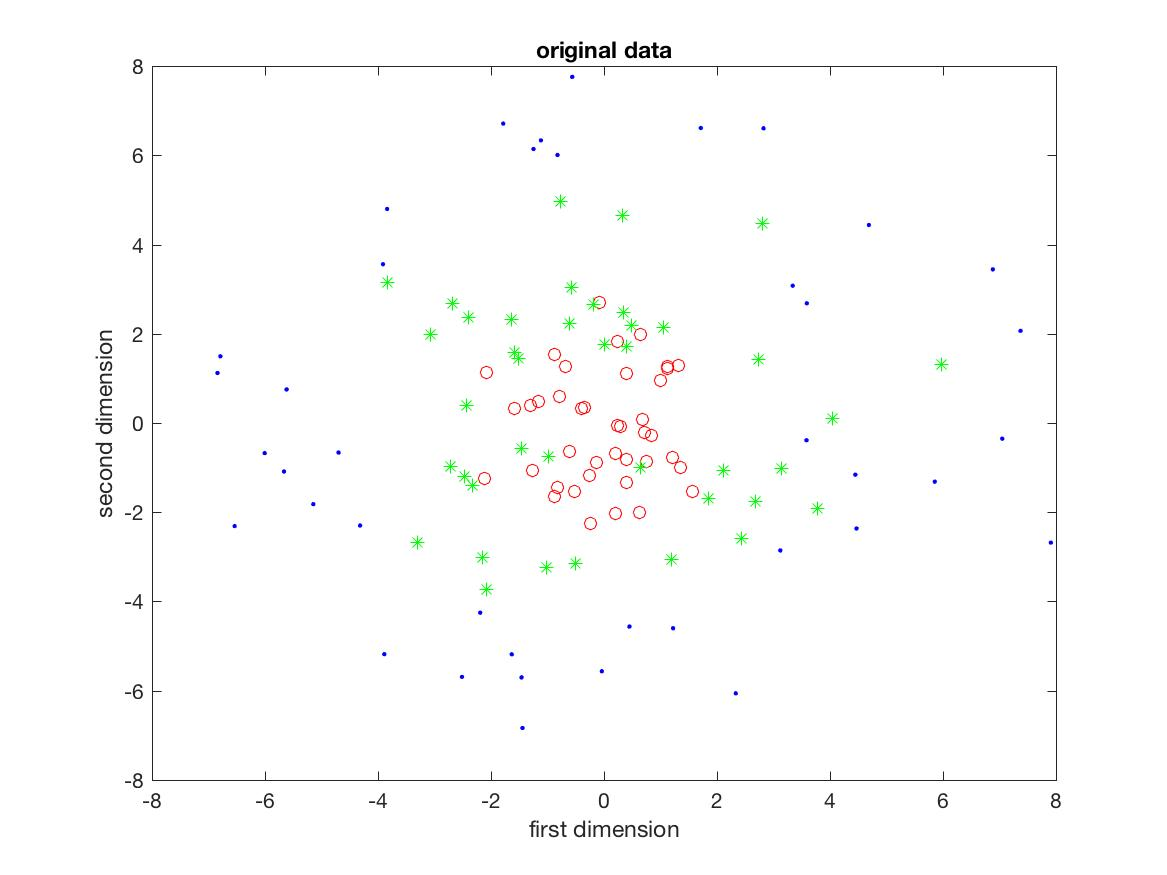
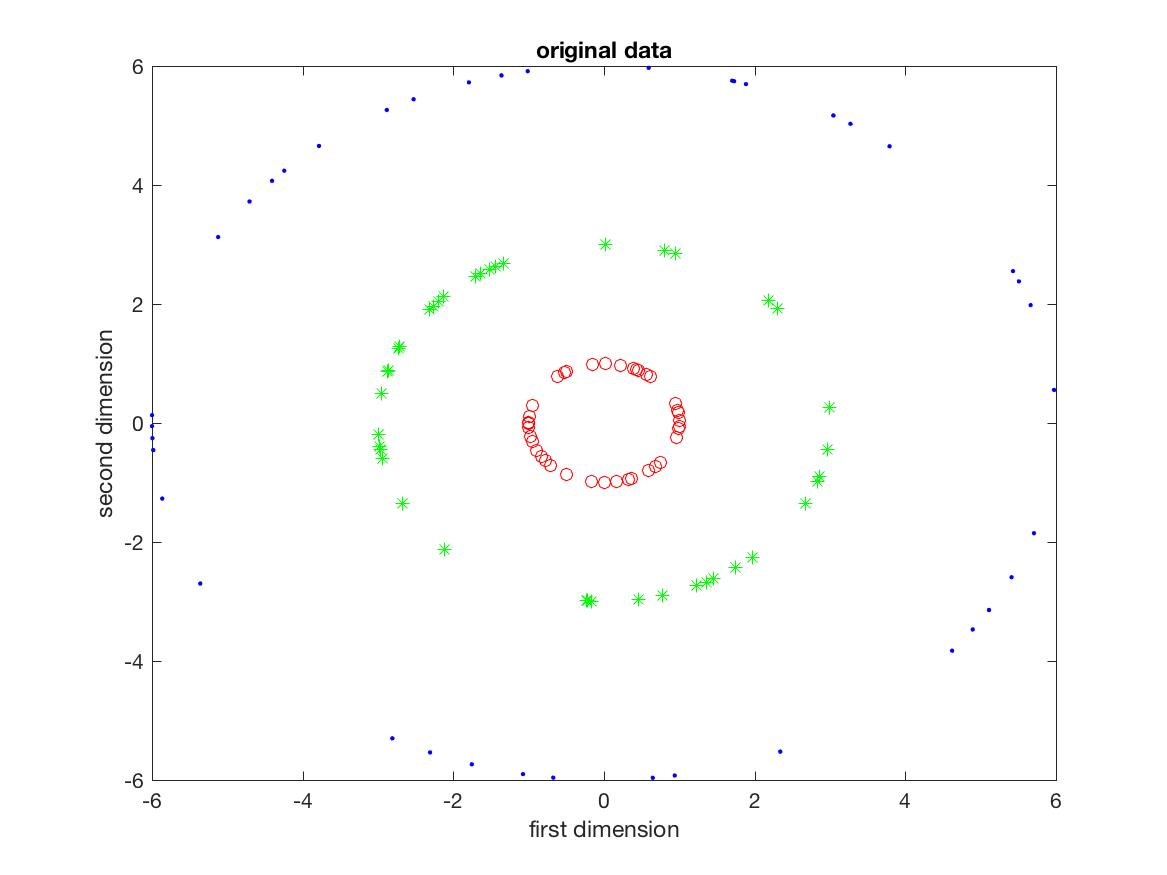
ddd

diff --git a/code/generate_data.m b/code/generate_data.m
@@ -15,10 +15,10 @@ theta2 = rand(1,N_in_group)*2*pi;
 theta3 = rand(1,N_in_group)*2*pi;
 X1(:,1) = 1 * cos(theta1) + randn(1,N_in_group);
 X1(:,2) = 1 * sin(theta1) + randn(1,N_in_group);
-X2(:,1) = 3* cos(theta2) + randn(1,N_in_group);
+X2(:,1) = 3 * cos(theta2) + randn(1,N_in_group);
 X2(:,2) = 3 * sin(theta2) + randn(1,N_in_group);
 X3(:,1) = 6 * cos(theta3) + randn(1,N_in_group);
-X3(:,2) = 6* sin(theta3) + randn(1,N_in_group);
+X3(:,2) = 6 * sin(theta3) + randn(1,N_in_group);
 X1=X1';
 X2=X2';
 X3=X3';

diff --git a/code/testKPCA.m b/code/testKPCA.m
@@ -3,19 +3,7 @@ clear all;
 close all;
 clc;
 % generating linearly unclusterable data, load if it already exists
-if not(exist('X1.mat'))
-  [X1, X2, X3] = generate_data();
-  save 'X1.mat'  X1
-  save 'X2.mat'  X2
-  save 'X3.mat'  X3
-else
-  load 'X1.mat'
-  load 'X2.mat'
-  load 'X3.mat'
-  X1=X1';
-  X2=X2';
-  X3=X3';
-end
+[X1, X2, X3] = generate_data();
 
 % Original data
 figure(1)
